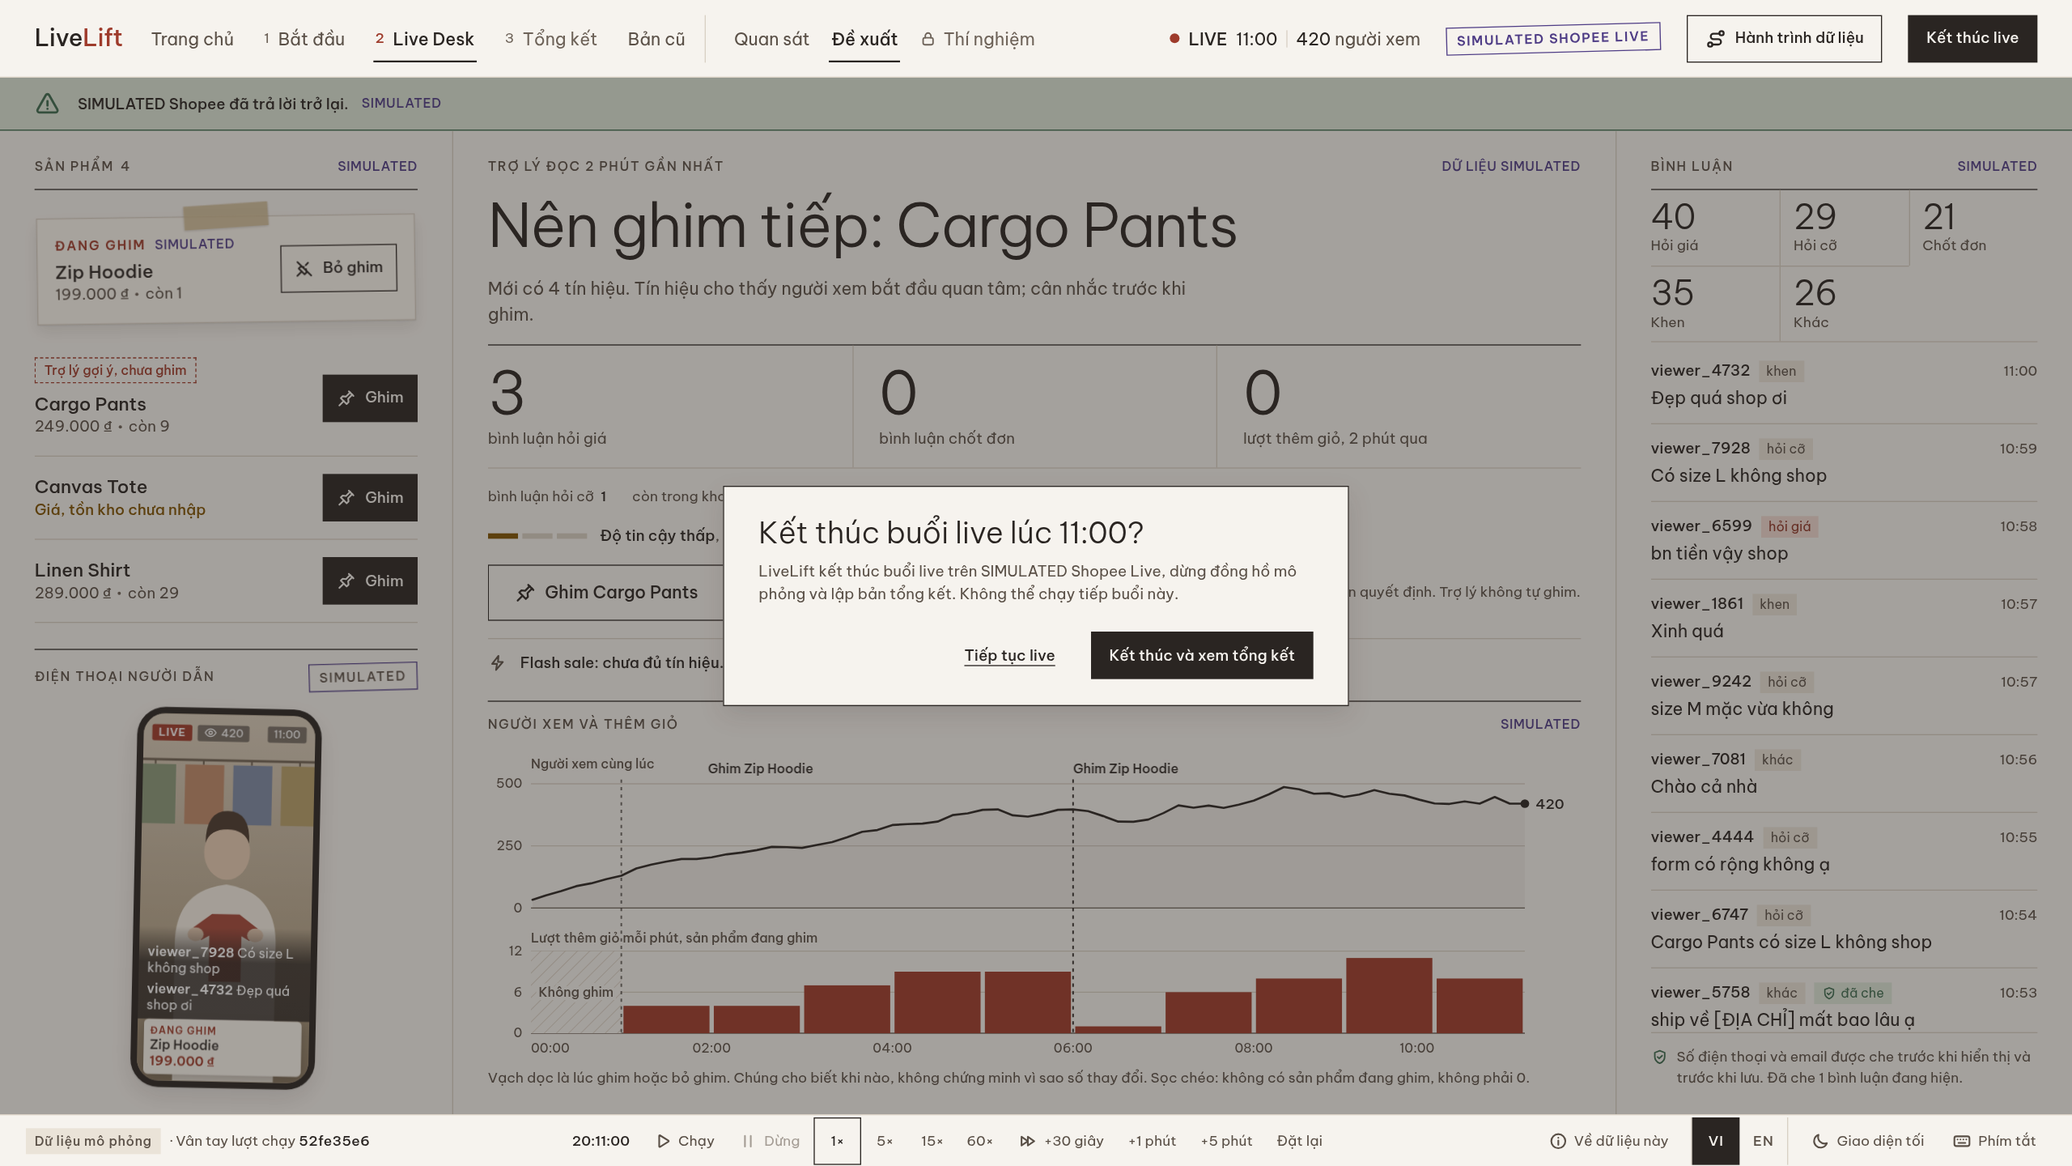
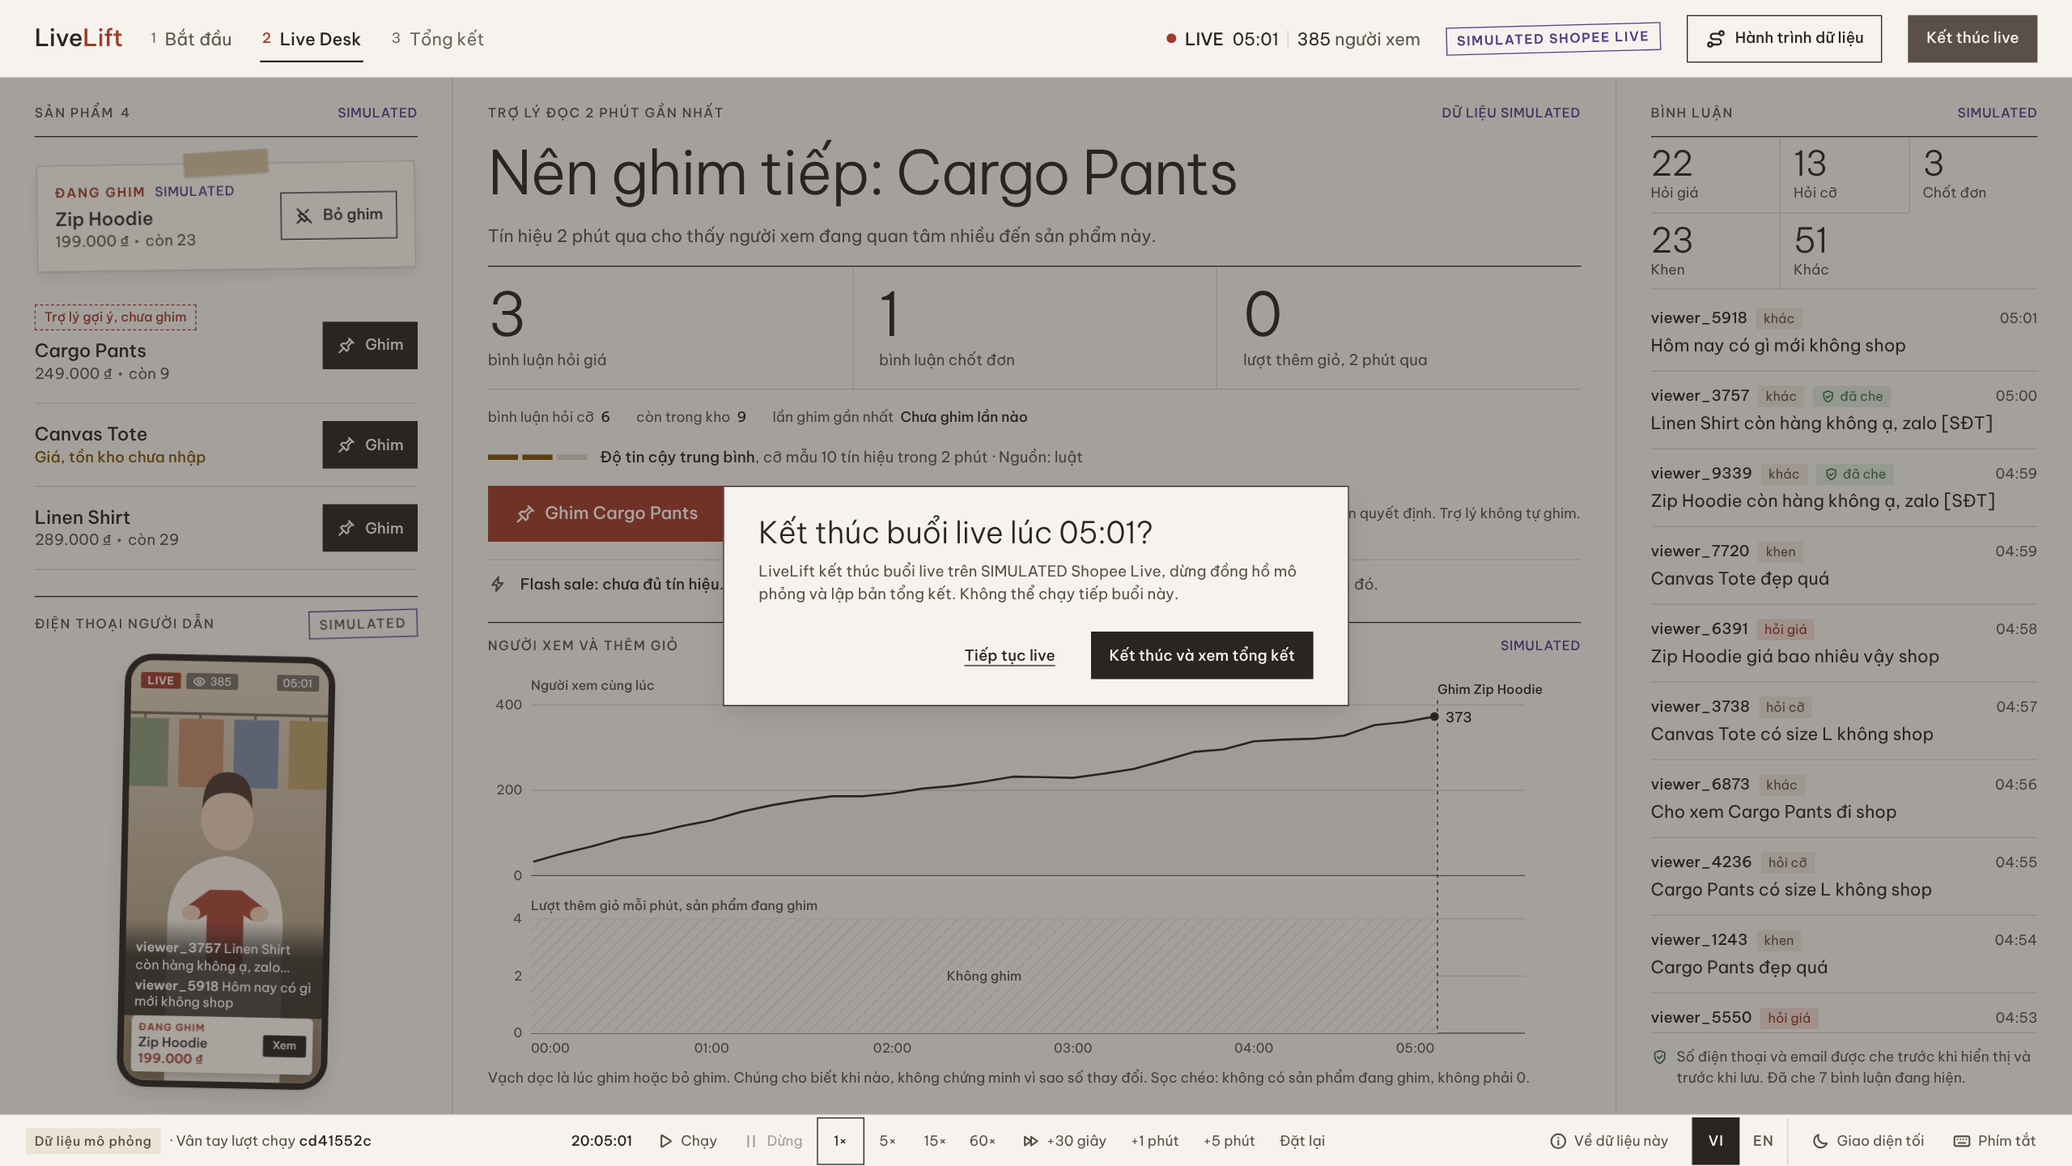
feat(livedesk): simplify header and desk, fix mobile flash gap and Start fit, refresh screenshots
Remove the Quan sat/De xuat/Thi nghiem switch and the Home and Legacy header links (Legacy is a quiet link
on Home). Tighten Start spacing so Bat dau live clears the dock at 1080p, stop the flash row reserving 360px
on mobile, and read light titles at weight 400 in presenter mode. Replace the locked-mode test with one that
asserts there is no mode switch and the nav test with the three-step header. Regenerate docs/livedesk/screens.
Update the AGENTS.md test baseline.

Claude-Session: https://claude.ai/code/session_01T5jHqYtofkC61PJ5z9MqDx

diff --git a/next/src/components/livedesk/LiveDeskScreen.tsx b/next/src/components/livedesk/LiveDeskScreen.tsx
@@ -10,7 +10,7 @@ import type {
 } from "@/lib/livedesk/types";
 import type { DeskCopy } from "./copy";
 import { DeskChart } from "./DeskChart";
-import { IconAlert, IconBolt, IconInfo, IconLock, IconPause, IconPin, IconPlay, IconShield, IconSkip, IconUnpin } from "./icons";
+import { IconAlert, IconBolt, IconInfo, IconPause, IconPin, IconPlay, IconShield, IconSkip, IconUnpin } from "./icons";
 import { INTENT_ORDER, clock, headline, num, readSignal, tAiStatus, tAssumption, tBanner, type ReadSignal } from "./i18n";
 import { Phone } from "./Phone";
 import type { DeskLang } from "./prefs";
@@ -25,8 +25,6 @@ import { Button, Meter, Num, SimTag, useFlip } from "./ui";
  * platform shows the product.
  */
 
-type Mode = "observe" | "suggest";
-
 const SKIPS = [30, 60, 300] as const;
 
 /** The suggestion the screen leads with: the newest proposed one of each kind. */
@@ -37,28 +35,6 @@ function proposed(view: LiveDeskViewModel, kind: CopilotSuggestion["kind"]): Cop
 const productName = (view: LiveDeskViewModel, id: string): string => view.products.find((p) => p.id === id)?.name ?? id;
 
 // ---- header pieces ----------------------------------------------------------------------------------------------
-
-function ModeSwitch({ mode, setMode }: { mode: Mode; setMode: (m: Mode) => void }) {
-  const { c } = useShell();
-  const [note, setNote] = useState(false);
-  return (
-    <div className="modes" role="group" aria-label={c.modesLabel}>
-      <button type="button" className="mode" aria-pressed={mode === "observe"} onClick={() => setMode("observe")} data-testid="desk-mode-observe">{c.observe}</button>
-      <button type="button" className="mode" aria-pressed={mode === "suggest"} onClick={() => setMode("suggest")} data-testid="desk-mode-suggest">{c.suggest}</button>
-      <button type="button" className="mode is-locked" aria-disabled="true" aria-expanded={note} aria-controls="lock-note" onClick={() => setNote(!note)} data-testid="desk-mode-experiment">
-        <IconLock size={16} />
-        {c.experiment}
-      </button>
-      {note && (
-        <div className="popover" id="lock-note" role="note" data-testid="desk-lock-note">
-          <p className="popover-title">{c.lockTitle}</p>
-          <p>{c.lockBody}</p>
-          <Button size="sm" onClick={() => setNote(false)}>{c.lockOk}</Button>
-        </div>
-      )}
-    </div>
-  );
-}
 
 function LiveStatus({ view }: { view: LiveDeskViewModel }) {
   const { c, lang } = useShell();
@@ -212,13 +188,13 @@ function LastOutcome({ view }: { view: LiveDeskViewModel }) {
   );
 }
 
-function Answer({ view, actions, mode, recap }: { view: LiveDeskViewModel; actions: LiveDeskActions; mode: Mode; recap: RecapViewModel | null }) {
+function Answer({ view, actions, recap }: { view: LiveDeskViewModel; actions: LiveDeskActions; recap: RecapViewModel | null }) {
   const { c, lang } = useShell();
   const next = proposed(view, "show_next");
   const showing = view.products.find((p) => p.id === view.showingProductId) ?? null;
   const since = showing && recap ? [...recap.bands].reverse().find((b) => b.productId === showing.id)?.fromSec ?? null : null;
   const flash = proposed(view, "flash_sale");
-  const announce = view.mode === "live" && mode === "suggest"
+  const announce = view.mode === "live"
     ? [next, flash].filter((s): s is CopilotSuggestion => s !== null).map((s) => `SIMULATED. ${headline(s, productName(view, s.productId), lang)}. ${c.state[s.state]}.`).join(" ")
     : "";
   let body: React.ReactNode;
@@ -228,21 +204,6 @@ function Answer({ view, actions, mode, recap }: { view: LiveDeskViewModel; actio
         <h2 className="answer-title" data-journey="5"><JBadge n={5} />{c.endedTitle}</h2>
         <p className="answer-lede" data-journey="4"><JBadge n={4} />{c.endedLede}</p>
         <LastOutcome view={view} />
-      </div>
-    );
-  } else if (mode === "observe") {
-    body = (
-      <div className="answer-body" key="observe">
-        <h2 className="answer-title" data-journey="5"><JBadge n={5} />{c.observeTitle}</h2>
-        <p className="answer-lede">{c.observeLede}</p>
-        <div className="why" data-journey="4">
-          <dl className="reasons">
-            {(["ask_price", "ask_size", "ready_to_buy"] as const).map((k) => (
-              <div key={k}><dt>{c.intent[k]}</dt><dd><Num value={view.intentCounts[k]} /></dd></div>
-            ))}
-          </dl>
-          <p className="confidence"><JBadge n={4} />{c.intentsLabel}</p>
-        </div>
       </div>
     );
   } else if (next) {
@@ -274,20 +235,19 @@ function Answer({ view, actions, mode, recap }: { view: LiveDeskViewModel; actio
   return (
     <section className="panel answer" aria-labelledby="answer-h" data-testid="desk-copilot">
       <p className="answer-kicker" id="answer-h">
-        {mode === "observe" ? c.kickerObserve : c.kicker}
+        {c.kicker}
         <SimTag quiet>{c.simDataTag}</SimTag>
       </p>
       {body}
       <p className="sr-only" role="status" aria-atomic="true" data-testid="desk-announce">{announce}</p>
-      <Flash view={view} actions={actions} mode={mode} primaryTaken={next !== null && next.confidence !== "low"} />
+      <Flash view={view} actions={actions} primaryTaken={next !== null && next.confidence !== "low"} />
     </section>
   );
 }
 
-function Flash({ view, actions, mode, primaryTaken }: { view: LiveDeskViewModel; actions: LiveDeskActions; mode: Mode; primaryTaken: boolean }) {
+function Flash({ view, actions, primaryTaken }: { view: LiveDeskViewModel; actions: LiveDeskActions; primaryTaken: boolean }) {
   const { c, lang } = useShell();
   if (view.mode === "ended") return null;
-  if (mode === "observe") return <div className="flash"><IconBolt size={18} /><p>{c.flashObserve}</p></div>;
   const ready = proposed(view, "flash_sale");
   if (ready) {
     const signals = ready.signals.map((x) => readSignal(x, lang));
@@ -467,10 +427,10 @@ function ClockControls({ view, actions }: { view: LiveDeskViewModel; actions: Li
 
 // ---- screen -------------------------------------------------------------------------------------------------------
 
-function DeskBody({ liveId, view, actions, mode, recap }: { liveId: string; view: LiveDeskViewModel; actions: LiveDeskActions; mode: Mode; recap: RecapViewModel | null }) {
+function DeskBody({ liveId, view, actions, recap }: { liveId: string; view: LiveDeskViewModel; actions: LiveDeskActions; recap: RecapViewModel | null }) {
   const { c, lang } = useShell();
   const next = proposed(view, "show_next");
-  const suggested = mode === "suggest" && view.mode === "live" && next ? next.productId : null;
+  const suggested = view.mode === "live" && next ? next.productId : null;
   const chart = {
     elapsedSec: recap?.durationSec ?? 0,
     viewers: view.charts.viewers.points,
@@ -504,7 +464,7 @@ function DeskBody({ liveId, view, actions, mode, recap }: { liveId: string; view
           <Phone view={view} c={c} lang={lang} />
         </div>
         <div className="col col-center">
-          <Answer view={view} actions={actions} mode={mode} recap={recap} />
+          <Answer view={view} actions={actions} recap={recap} />
           <section className="panel chart-panel" aria-labelledby="chart-h" data-testid="desk-chart">
             <div className="panel-head">
               <h2 id="chart-h">{c.chartTitle}</h2>
@@ -567,7 +527,6 @@ export function LiveDeskScreen({ liveId }: { liveId: string }) {
   const recap = useLiveRecap(liveId);
   const router = useRouter();
   const [mounted, setMounted] = useState(false);
-  const [mode, setMode] = useState<Mode>("suggest");
   const [about, setAbout] = useState(false);
   const [confirm, setConfirm] = useState(false);
   const [ending, setEnding] = useState(false);
@@ -584,7 +543,6 @@ export function LiveDeskScreen({ liveId }: { liveId: string }) {
     <Shell
       screen="desk"
       modalOpen={about || confirm}
-      headerModes={<ModeSwitch mode={mode} setMode={setMode} />}
       headerStatus={<LiveStatus view={view} />}
       headerEnd={<EndControl view={view} liveId={liveId} onEnd={() => setConfirm(true)} />}
       dockStart={<span className="dock-print">{"· "}<DeskFingerprint view={view} /></span>}
@@ -592,7 +550,7 @@ export function LiveDeskScreen({ liveId }: { liveId: string }) {
       dockEnd={<AboutButton onOpen={() => setAbout(true)} />}
       onSpace={live ? () => (view.clock.running ? actions.onPause() : actions.onRun()) : undefined}
     >
-      <DeskBody liveId={liveId} view={view} actions={actions} mode={mode} recap={recap} />
+      <DeskBody liveId={liveId} view={view} actions={actions} recap={recap} />
       {about && <AboutDrawer view={view} liveId={liveId} onClose={() => setAbout(false)} />}
       {confirm && live && (
         <ConfirmEnd view={view} onCancel={() => setConfirm(false)} onConfirm={() => { setConfirm(false); setEnding(true); actions.onEndLive(); }} />

diff --git a/next/src/components/livedesk/Shell.tsx b/next/src/components/livedesk/Shell.tsx
@@ -143,11 +143,9 @@ function Nav({ screen, c }: { screen: DeskScreen; c: DeskCopy }) {
   const deskHref = live ? `/desk/${encodeURIComponent(live.id)}` : null;
   const recapHref = live?.mode === "ended" ? `/desk/${encodeURIComponent(live.id)}/recap` : null;
   const items: { id: DeskScreen; n: number | null; label: string; href: string | null; off?: string }[] = [
-    { id: "home", n: null, label: c.home, href: "/" },
     { id: "start", n: 1, label: c.start, href: "/start" },
     { id: "desk", n: 2, label: c.desk, href: deskHref, off: c.navDeskOff },
     { id: "recap", n: 3, label: c.recap, href: recapHref, off: c.navRecapOff },
-    { id: "legacy", n: null, label: c.legacy, href: "/legacy" },
   ];
   return (
     <nav className="trail" aria-label={c.navLabel} data-testid="desk-nav">
@@ -173,11 +171,9 @@ function Nav({ screen, c }: { screen: DeskScreen; c: DeskCopy }) {
   );
 }
 
-export function Shell({ screen, children, headerModes, headerStatus, headerEnd, dockStart, dockCenter, dockEnd, onSpace, modalOpen = false }: {
+export function Shell({ screen, children, headerStatus, headerEnd, dockStart, dockCenter, dockEnd, onSpace, modalOpen = false }: {
   screen: DeskScreen;
   children: React.ReactNode;
-  /** Desk only: the assistant's mode switch, beside the navigation. */
-  headerModes?: React.ReactNode;
   /** Desk only: LIVE status. */
   headerStatus?: React.ReactNode;
   /** Desk only: End live. */
@@ -242,12 +238,11 @@ export function Shell({ screen, children, headerModes, headerStatus, headerEnd, 
     <Ctx.Provider value={ctx}>
       <div className={`ld screen-${screen}${presenter ? " is-presenter" : ""}${journey ? " is-journey" : ""}`} data-theme={theme}
         data-presenter={presenter ? "1" : "0"} lang={lang} data-testid="livedesk-frame" data-screen={screen}>
-        <header className={`hdr${headerModes ? " has-modes" : ""}`}>
+        <header className="hdr">
           <div className="hdr-brand">
             <Link href="/" className="wordmark" aria-label={`LiveLift, ${c.home}`}>Live<span className="wordmark-lift">Lift</span></Link>
           </div>
           <Nav screen={screen} c={c} />
-          {headerModes}
           <div className="hdr-spacer" />
           {headerStatus}
           <SimTag><span className="stamp-long">{c.stamp}</span><span className="stamp-short">SIMULATED</span></SimTag>

diff --git a/next/src/__tests__/livedesk/ui/screens.test.tsx b/next/src/__tests__/livedesk/ui/screens.test.tsx
@@ -149,11 +149,11 @@ describe("Routes, language and honesty", () => {
     expect(links.map(link => link.getAttribute("href"))).toEqual(["/legacy/home", "/sessions", "/products", "/insights", "/simulator", "/integrations", "/live/new"]);
   });
 
-  it("the header links Home, Start, Live Desk, Recap and Legacy, and offers only what exists", () => {
+  it("the header links Start, Live Desk and Recap only, and offers only what exists", () => {
     currentLive = { id: "my live", mode: "live" };
     render(<StartPage />);
     const header = within(screen.getByTestId("desk-nav"));
-    expect(header.getAllByRole("link").map(link => link.getAttribute("href"))).toEqual(["/", "/start", "/desk/my%20live", "/legacy"]);
+    expect(header.getAllByRole("link").map(link => link.getAttribute("href"))).toEqual(["/start", "/desk/my%20live"]);
     expect(screen.getByTestId("nav-recap")).toHaveAttribute("aria-disabled", "true");
     expect(screen.getByTestId("nav-recap")).toHaveTextContent("Tổng kết có sau khi bạn kết thúc live");
     cleanup();
@@ -538,16 +538,11 @@ describe("Desk interactions", () => {
     expect(screen.queryByRole("dialog")).toBeNull();
   });
 
-  it("Experiment is locked with an honest reason; Observe only describes", () => {
+  it("the desk has no mode switch: the assistant always suggests and the header carries no locked mode", () => {
     renderDesk();
-    const lock = screen.getByTestId("desk-mode-experiment");
-    expect(lock).toHaveAttribute("aria-disabled", "true");
-    fireEvent.click(lock);
-    expect(screen.getByTestId("desk-lock-note")).toHaveTextContent("không kết luận nhân quả");
-    fireEvent.click(screen.getByTestId("desk-mode-observe"));
-    expect(screen.queryByTestId("desk-accept-s1")).toBeNull();
-    expect(screen.queryByText("Trợ lý gợi ý, chưa ghim")).toBeNull();
-    expect(screen.getByTestId("desk-copilot")).toHaveTextContent("Trợ lý vẫn đọc tín hiệu nhưng không hiện gợi ý");
+    expect(screen.queryByTestId("desk-mode-experiment")).toBeNull();
+    expect(screen.queryByTestId("desk-mode-observe")).toBeNull();
+    expect(screen.getByTestId("desk-copilot")).toBeInTheDocument();
   });
 
   it("flash sale: not enough signals says why, a proposed one can be run or dismissed", () => {

diff --git a/next/src/components/livedesk/calm.css b/next/src/components/livedesk/calm.css
@@ -1756,7 +1756,7 @@
   display: grid;
 }
 .ld .step {
-  padding: var(--s-24) 0;
+  padding: var(--s-16) 0;
   border-top: 1px solid var(--line);
 }
 .ld .step:first-child {
@@ -2902,6 +2902,9 @@
     flex-direction: column;
     align-items: flex-start;
   }
+  .ld .flash-main {
+    flex: 0 0 auto;
+  }
   .ld .live-time + .live-sep,
   .ld .live-viewers {
     display: none;
@@ -3637,4 +3640,13 @@
     opacity: 0;
     transform: translateY(-6px);
   }
+}
+
+/* WP8: the old screens are one quiet link at the foot of Home, not a header item. */
+.ld .home-legacy { margin: var(--s-6, 24px) 0 0; font-size: 14px; }
+.ld .home-legacy a { color: var(--ink-3, inherit); text-decoration: underline; text-underline-offset: 3px; min-height: 44px; display: inline-flex; align-items: center; }
+
+/* WP8: on a projector the 300 weight thins out; presenter mode reads at 400. */
+.ld.is-presenter {
+  --w-light: 400;
 }

diff --git a/next/src/components/livedesk/HomeScreen.tsx b/next/src/components/livedesk/HomeScreen.tsx
@@ -73,6 +73,7 @@ function HomeBody() {
           ))}
         </dl>
       </section>
+      <p className="home-legacy"><Link href="/legacy" data-testid="home-legacy">{c.legacy}</Link></p>
     </div>
   );
 }

diff --git a/docs/livedesk/DESIGN-NOTES.md b/docs/livedesk/DESIGN-NOTES.md
@@ -47,20 +47,21 @@ All screens live in `next/src/components/livedesk/`; the routes are thin pages. 
    button names the effect. A suggestion is never drawn as a pin: dashed chip while proposed, the taped card only
    once the SIMULATED platform shows the product. After acceptance the answer says “Đã nhận, chờ nền tảng hiện”
    or “Đã nhận, nền tảng đã hiện (SIMULATED)”: accepted and performed stay apart.
-7. **Header.** Logo (the Home link), links Trang chủ · 1 Bắt đầu · 2 Live Desk · 3 Tổng kết · Bản cũ, then on
-   the desk the mode switch, LIVE status, the SIMULATED stamp, the journey toggle and End live. Links that do not
-   exist yet (no live, no recap) are shown disabled with the reason. Below 1600 px the desk header sheds the Home
-   and Legacy links (the logo still goes Home), the viewer count and the journey label; below 1440 the stamp
-   shortens to “SIMULATED”. The stamp is never hidden (the mockup hid it below 1280). Language, theme, keys and
-   “Về dữ liệu này” sit in the quiet bottom bar with the clock, as in the mockup.
+7. **Header (simplified in WP8).** Logo (the Home link), then three steps: 1 Bắt đầu · 2 Live Desk · 3 Tổng kết;
+   on the desk also the LIVE status, the SIMULATED stamp, the journey toggle and End live. Links that do not exist
+   yet (no live, no recap) are shown disabled with the reason. The old screens are one quiet link at the foot of
+   Home, not a header item. Below 1600 px the desk header sheds the viewer count and the journey label; below
+   1440 the stamp shortens to “SIMULATED”. The stamp is never hidden. Language, theme, keys and “Về dữ liệu này”
+   sit in the quiet bottom bar with the clock.
 8. **Clock controls in the bottom bar**: virtual time, Chạy, Dừng, 1× 5× 15× 60×, +30 giây, +1 phút, +5 phút,
    Đặt lại. The run fingerprint sits at the left of the bar.
 9. **End live asks first** (“Kết thúc buổi live lúc 06:52?”). Confirming ends the live on the SIMULATED platform
    and opens the recap once the logic reports the live ended. If the platform refuses, the desk stays and the
    banner says why.
-10. **Modes.** *Quan sát* only hides suggestions and describes the last two minutes by intent; the Copilot keeps
-    reading signals (said on screen). *Thí nghiệm* is locked: this version has no experiment mode, and the
-    reason says it needs sessions of 90+ minutes and an approved test design.
+10. **No mode switch (removed in WP8).** The first build had Quan sát / Đề xuất / Thí nghiệm in the header. The team
+    judged it noise: the assistant now always suggests, and a suggestion is only ever a suggestion. The experiment
+    mode does not exist in this version; the recap says so under “Điều chưa biết” (causation needs a switchback
+    session, not observation).
 11. **Platform condition rehearsal.** The drawer can put SIMULATED Shopee into “Hết hạn quyền truy cập”, “Giới
     hạn tần suất” or “Lỗi máy chủ” and clear it again, through an additive hook over the logic's existing
     `setPlatformFault`. LiveLift reads again after the operator's next successful call; the drawer says so.

diff --git a/AGENTS.md b/AGENTS.md
@@ -18,7 +18,7 @@ npm run typecheck && npm run lint && npm test
 npm run build          # for any UI change
 ```
 
-Baseline on 2026-10-08: **65 test files, 1,095 passed, 57 skipped**, typecheck and lint clean. A change may add tests; it may not remove or weaken one.
+Baseline on 2026-10-09: **88 test files, 1,409 passed, 57 skipped**, typecheck and lint clean. A change may add tests; it may not remove or weaken one.
 Paste the summary line of each command in your report. Do not claim a result you did not see.
 
 ## Non-negotiable: the evidence model
